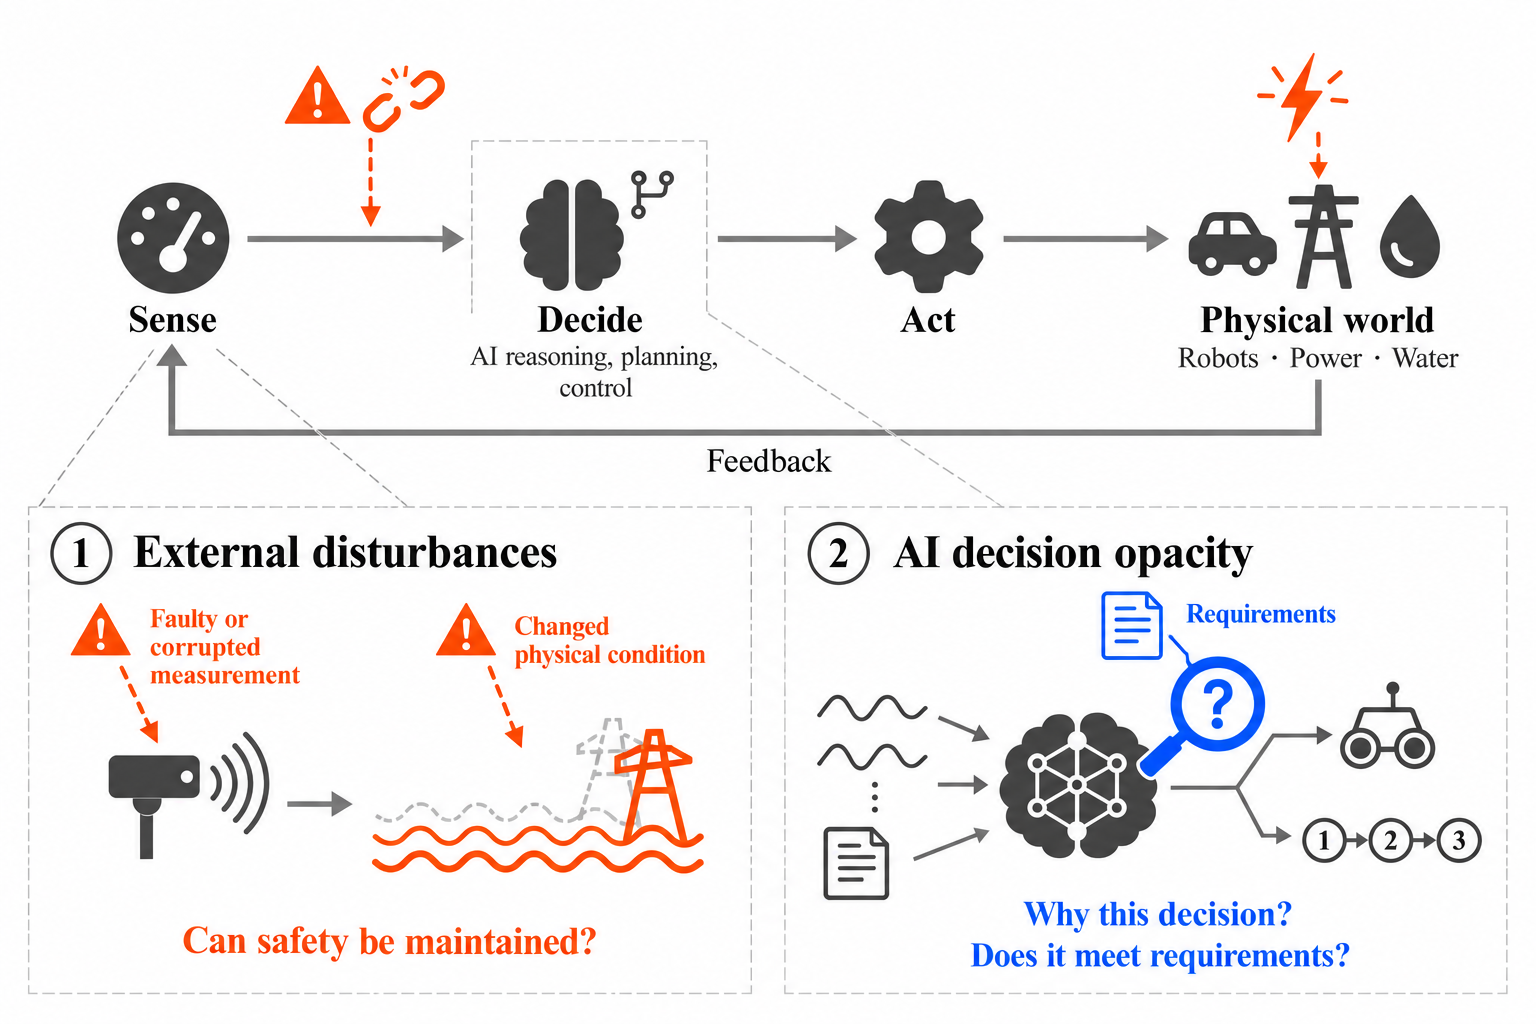
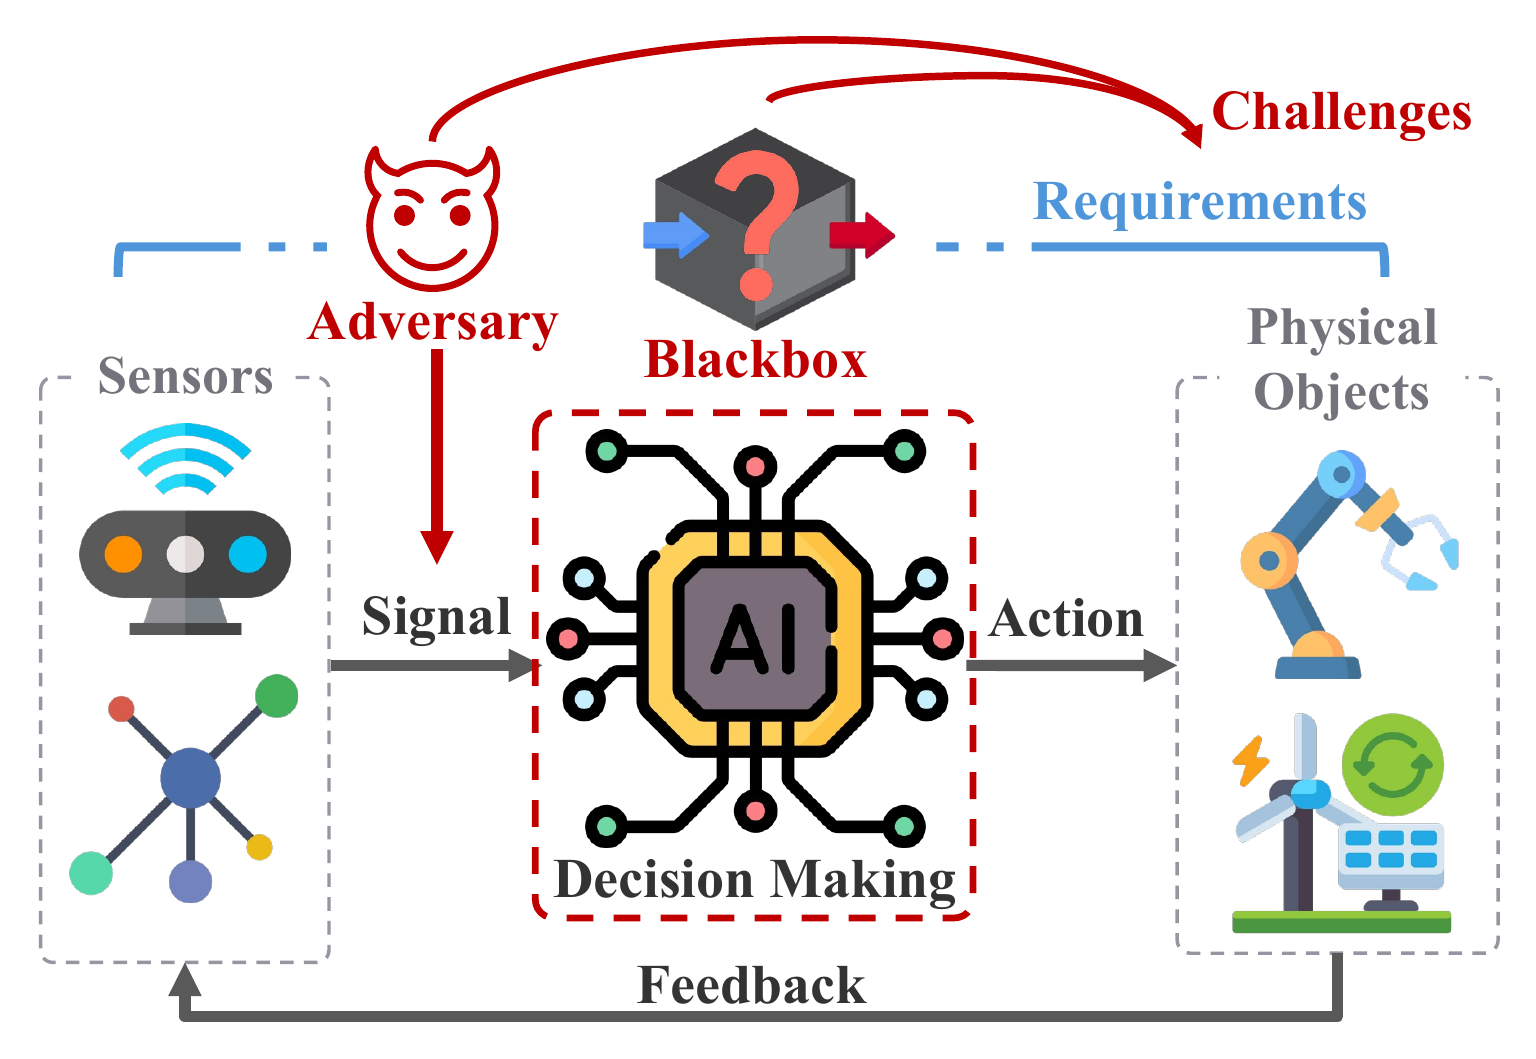
Correct homepage research figure

Changed region(s): [[0.0312, 0.0625, 0.9688, 0.9688], [0.375, 0.0312, 0.75, 0.0938], [0.3125, 0.6875, 0.3438, 0.7188]]

diff --git a/tasks/tasks-site-content-refresh.md b/tasks/tasks-site-content-refresh.md
@@ -673,6 +673,14 @@ Optional previews are omitted before any content, metadata, privacy, build, acce
[1 lines of base64/hex data omitted]
   - Evidence: generated order is Education → Professional Experience → Research → approved long-term vision → RS Figure 1 and exact caption → two challenges → existing research-framework Figure 2 → established areas → future directions. The copied asset is byte-identical to the active RS source. The production build, media/orphan/accessibility/generated-HTML audits, exact-order check, `git diff --check`, and AcadJob no-change gate pass. Browser replay reports Figure 1 at 360×240 in the 400×837 viewport and 770×513.328 in the 1440×900 viewport, with no horizontal overflow. Final independent verification returned PASS and declared commit/push eligible. Product commit `38312ee` (`Reorder About and add research vision figure`) was pushed successfully to `origin/master`.
 
+- [x] T21 Correct About Figure 1 to the PDF asset used by the current Research Statement.
+  - Dependencies: T20
+  - Scope: `_pages/about.md`, `assets/img/cps-challenges.png`
+  - Acceptance: the homepage Figure 1 visually matches `research_statement/figures/cps-challenges.pdf`, which is the file included by the current Research Statement; the caption, page order, and surrounding prose remain unchanged.
+  - Validate: source-PDF render comparison, production build, media/orphan/accessibility/generated-HTML audits, responsive browser inspection, `git diff --check`, independent read-only verification, and AcadJob no-change check.
[1 lines of base64/hex data omitted]
+  - Evidence: `body.tex:23` includes the PDF source, and the recorded command reproduces the website PNG byte-for-byte. The production build, four deterministic audits, exact-order check, responsive replays, and `git diff --check` pass. Independent session `01a17b75-1ba1-72c2-a1c1-34fb5b175275` returned PASS: mobile renders the 480×331 variant at 355×244.8 CSS pixels; desktop renders at 770×530.875; neither overflows. The pre-existing AcadJob cover-letter PDF modification remained unchanged and no Research Statement source changed.
+
 ## Blockers
 
-None. The final T20 independent replay returned PASS and declared commit/push eligible under the existing authorization.
+None. T21 passed independent read-only verification and is commit/push eligible under the existing authorization.

diff --git a/_pages/about.md b/_pages/about.md
@@ -32,7 +32,7 @@ I am a Postdoctoral Scholar at the [Institute for Convergent Software Integrated
 
 My research develops foundations and methods for trustworthy decision-making in AI and physical systems, with a focus on safety and resilience. I study how to establish when systems meet their requirements and how to guide their reasoning and behavior in the presence of errors, uncertainty, or disruptions. My long-term vision is to connect trustworthy AI reasoning with dependable operation in the physical world, enabling autonomous systems and critical infrastructure to fulfill their intended functions under changing and adverse conditions.
 
-{% include figure.html path="assets/img/cps-challenges.png" class="research-challenges img-fluid rounded z-depth-1" alt="Closed-loop AI-enabled physical system showing sensing, decision-making, action, feedback, external disturbances, and AI decision opacity." caption="Figure 1. AI-enabled physical systems operate through a closed loop of sensing, decision-making, and action. Adversarial interference and the opacity of AI decisions pose two key challenges." %}
+{% include figure.html path="assets/img/cps-challenges.png" class="research-challenges img-fluid rounded z-depth-1" alt="Closed-loop AI-enabled physical system showing sensors, an adversary, a black-box decision maker, physical objects, requirements, actions, and feedback." caption="Figure 1. AI-enabled physical systems operate through a closed loop of sensing, decision-making, and action. Adversarial interference and the opacity of AI decisions pose two key challenges." %}
 
 Physical systems, including robots, power grids, and water networks, depend on sensors to observe operating conditions and algorithms to select actions. Faulty or corrupted measurements can undermine safe operation. AI decisions can also be difficult to analyze, making it harder to determine whether they meet system requirements and how to correct them when they do not.
 

diff --git a/tasks/verification-site-content-refresh.md b/tasks/verification-site-content-refresh.md
@@ -2,7 +2,7 @@
 
 ## Verdict
 
-PASS — T20 About-page research narrative correction committed as `38312ee` and pushed to `origin/master`
+PASS — T21 About Figure 1 now matches the PDF included by the current Research Statement
 
 ## Scope
 
@@ -63,3 +63,7 @@ Springer's official record prescribes citation year 2027, names the venue `AI Ve
 ## T20 Follow-Up
 
 The About page now places Education and Professional Experience before Research. Research opens with the approved long-term vision, then the RS Figure 1 and exact caption, the two RS challenges, and the existing research-framework figure before the established areas and future directions. The copied Figure 1 hash matches the active read-only source. The production build, deterministic audits, exact-order check, responsive browser replays, `git diff --check`, AcadJob no-change check, and independent read-only replay pass. T20 is commit/push eligible under the existing authorization.
+
+## T21 Follow-Up
+
[1 lines of base64/hex data omitted]
